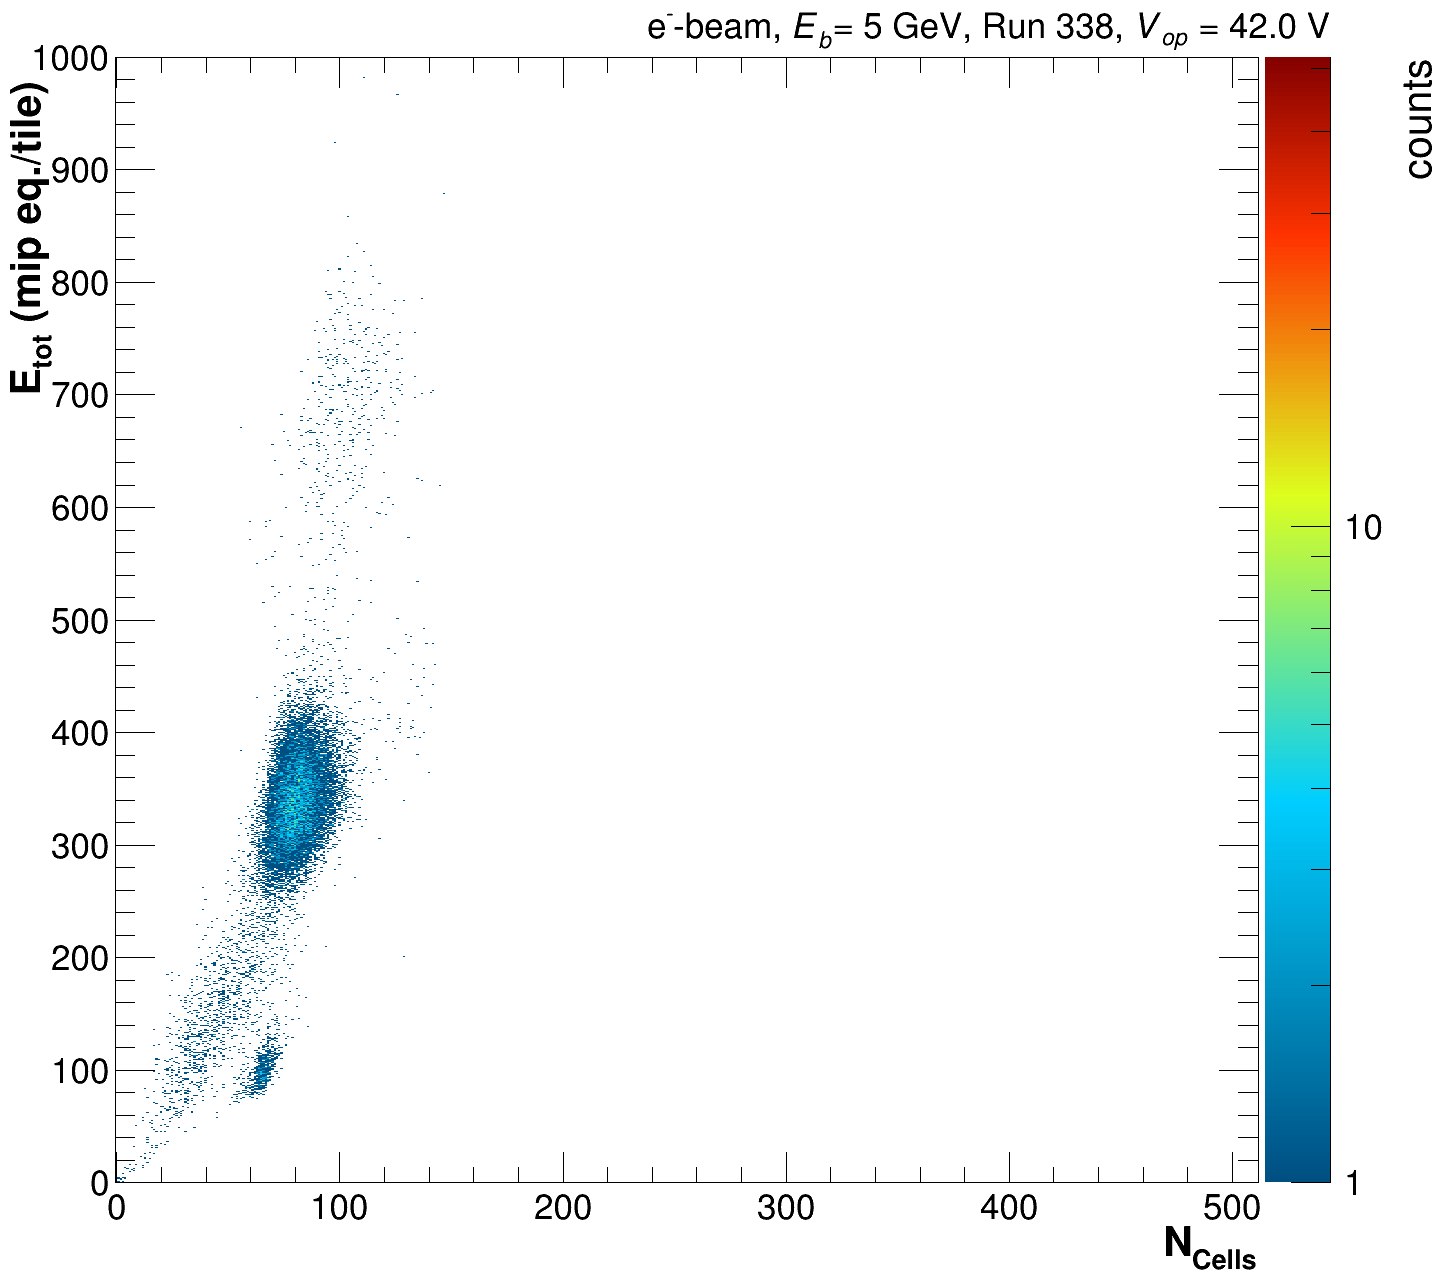
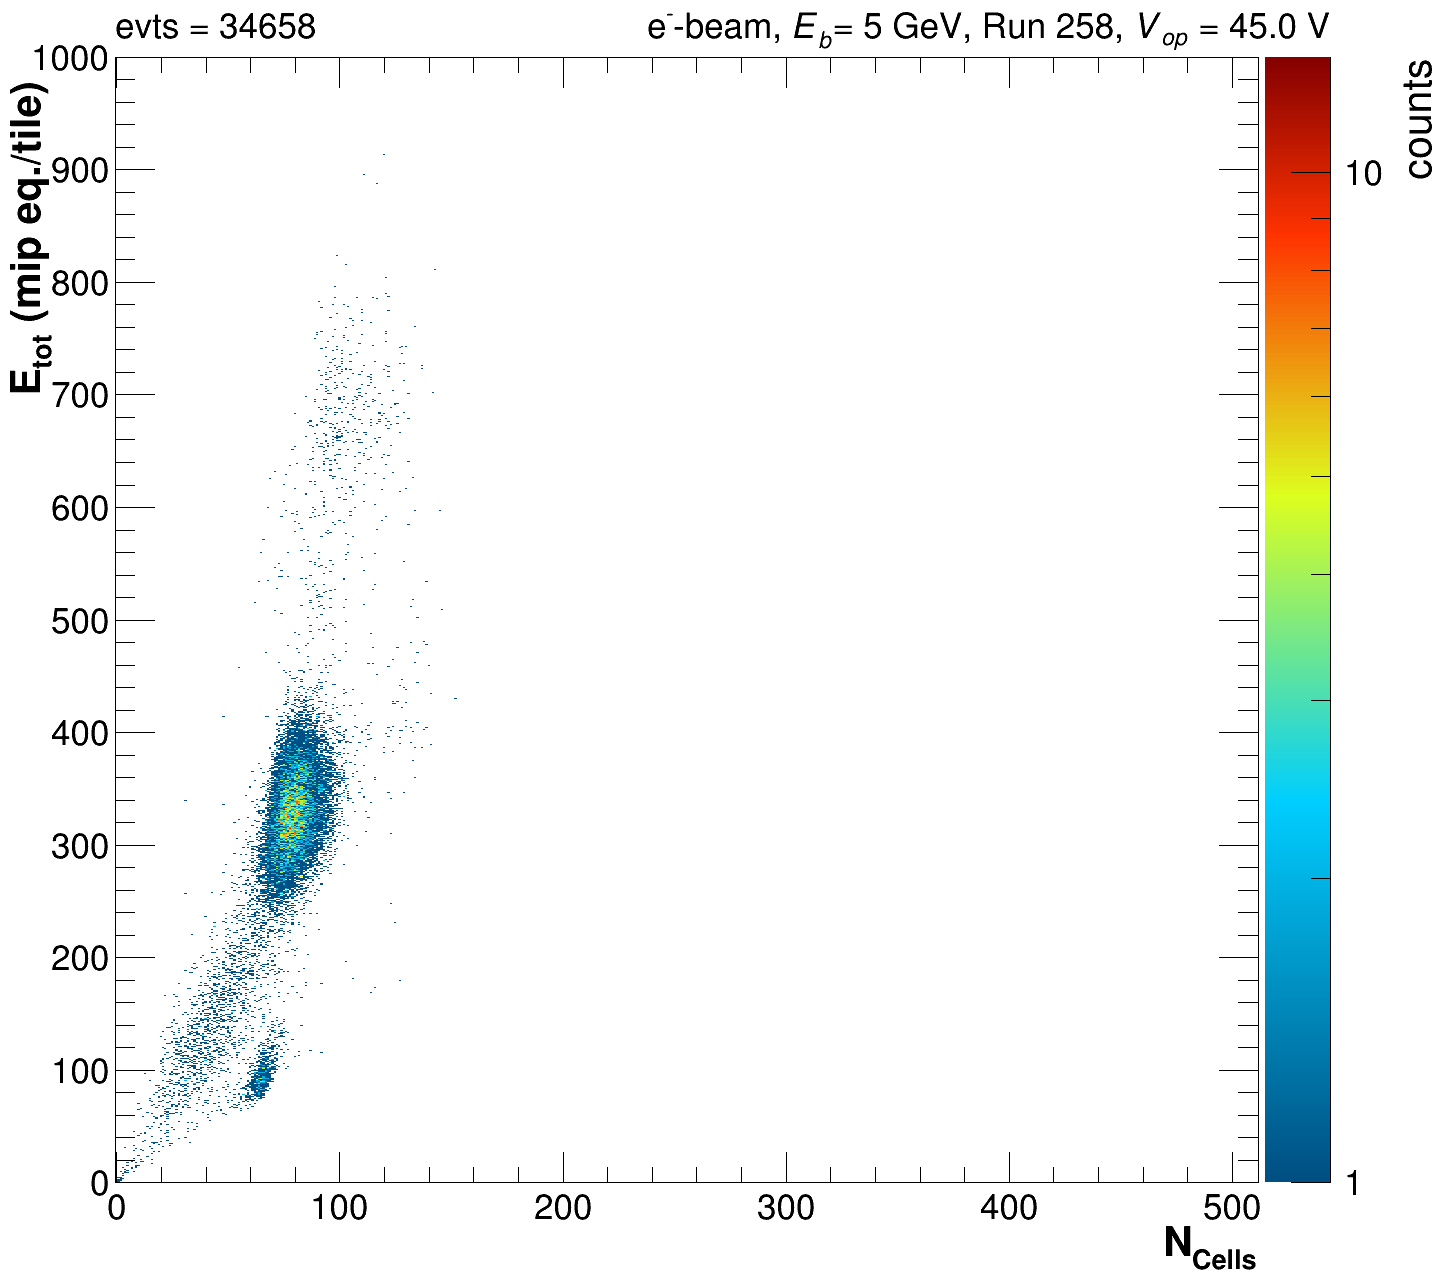
GITBOOK-71: No subject

diff --git a/calibration/apply-calibrations.md b/calibration/apply-calibrations.md
@@ -1,27 +1,12 @@
 # Apply Calibrations
 
-## CAEN data
+## General Philosophy & operation
 
-Our current philosophy for the application of the calibrations is to keep the original raw values for the HG & LG ADC, but provide in addition an energy (E) for each tile calibrated to mip scale per tile. The pedestal corrected ADC values can always be obtained by calculating:
+Our general philosophy:
 
-```cpp
-double hgCorr = aTile->GetADCHigh()-calib.GetPedestalMeanH(aTile->GetCellID());
-double lgCorr = aTile->GetADCLow()-calib.GetPedestalMeanL(aTile->GetCellID());
-```
-
-Which leaves the data as much with their original content as possible.
-
-For convenience and reducing the storage needs the calibration objects can be copied out of any file using the following command and stored in a separate file.
-
-```
-./DataPrep -a -i $ORGFILEWITHCALIB.root -A $NEWCALIBFILEONLY.root
-```
-
-Once more the `-a` option triggers the writing of the calibrations also to a txt file with the same name as `$NEWCALIBFILEONLY.root` ending in `_calib.txt.`
-
-The original calibrations contained in the input root file can be overwritten as usual with the option `-k $CALIBTXTFILE.`
-
-### Calibrating a single run
+1. Keep the raw data available to the as much as possible!
+2. Allow easy access to derived quantities, i.e. calibrated Energy (E), corrected time...
+3. Keep calibration and setup objects in the same output file&#x20;
 
 Calibrating a single run can be a time intensive procedure, due to the fact that we are calculating the local trigger primitives for each tile & event in the same process. Consequently it might be advisable to separate the trigger calculation and actual calibration (if this might need repeating).
 
@@ -47,9 +32,9 @@ Where `-T` results in calling the
 
 `bool Analyses::RunEvalLocalTriggers(void)` in [Analyses.cc](https://github.com/eic/epic-lfhcal-tbana/blob/main/NewStructure/Analyses.cc).
 
-This process will run for a while (hours) but in principle is suffient do be done once, of the LG-HG correlation factors weren't incorrectly applied. This process won't create any plots.
+This process will run for a while (hours) but in principle is sufficient do be done once, if nothing has been changed which should affect the trigger primitives calculation. This process won't create any plots.
 
-Afterwards, the calibration can be run directly on that raw-file wiht the trigger primitives. Which is a rather quick procedure and could be repeated multiple times if need be.
+Afterwards, the calibration can be run directly on that raw-file with the trigger primitives. Which is a rather quick procedure and could be repeated multiple times if need be.
 
 ```sh
 # apply same calibrations to file with local trigger eval
@@ -71,46 +56,155 @@ The calibration function can be found in
 
 and will create a separate hist output root in addition to several plots.
 
-<div><figure><img src="../.gitbook/assets/HG (1).png" alt=""><figcaption><p>HG spectra for all cells as function of cell ID.</p></figcaption></figure> <figure><img src="../.gitbook/assets/LG (1).png" alt=""><figcaption><p>LG spectra for all cells as function of cell ID.</p></figcaption></figure></div>
+**Keep in mind that during the calibration step we are also removing tiles which do not exceed a minimum threshold energy defined by `minMipFrac` .**&#x20;
 
-<div><figure><img src="../.gitbook/assets/HGCorr (1).png" alt=""><figcaption><p>Pedestal corrected HG spectra for all cells as function of cell ID.</p></figcaption></figure> <figure><img src="../.gitbook/assets/LGCorr (1).png" alt=""><figcaption><p>Pedestal corrected LG spectra for all cells as function of cell ID.</p></figcaption></figure></div>
+<div><figure><img src="../.gitbook/assets/EnergyTotalVsNCells (1) (1).png" alt=""><figcaption><p>Total energy within the event (E_cell > 0.3 E_mip) vs nr. of active cells with E_cell > 0.3 E_mip. CAEN data August 2024, 1 8M module, 64 layers.</p></figcaption></figure> <figure><img src="../.gitbook/assets/EnergyTotalVsNCells.png" alt=""><figcaption><p>Total energy within the event (E_cell > 0.3 E_mip) vs nr. of active cells with E_cell > 0.3 E_mip. HGCROC data November 2025, 2 8M modules, 32 layers.</p></figcaption></figure></div>
 
-<div><figure><img src="../.gitbook/assets/HGCorr_zoomed.png" alt=""><figcaption><p>Pedestal corrected HG spectra for all cells as function of cell ID. Zoomed in close to pedestal.</p></figcaption></figure> <figure><img src="../.gitbook/assets/LGCorr_zoomed.png" alt=""><figcaption><p>Pedestal corrected LG spectra for all cells as function of cell ID. Zoomed in close to pedestal.</p></figcaption></figure></div>
-
-<div><figure><img src="../.gitbook/assets/HGCorr_Noise.png" alt=""><figcaption><p>Pedestal corrected HG spectra for all locally noise triggered cells as function of cell ID. Zoomed in close to pedestal.</p></figcaption></figure> <figure><img src="../.gitbook/assets/LGCorr_Noise.png" alt=""><figcaption><p>Pedestal corrected LG spectra for all locally noise triggered cells as function of cell ID. Zoomed in close to pedestal.</p></figcaption></figure></div>
-
-For monitoring purposes the uncorrected, pedestal corrected as well as noise trigger pedestal corrected spectra are plotted. In order to identify possible problems with the pedestal subtraction or possible pedestal shifts due to common mode noise/cross-talk.
-
-<figure><img src="../.gitbook/assets/NoiseTrigg_HG_Layer11.png" alt=""><figcaption><p>HG spectra plotted together for all triggers and noise triggered tiles.</p></figcaption></figure>
-
-The detailed layer by layer plots will only be drawn if option `-e` is specified.
-
-<figure><img src="../.gitbook/assets/EnergyTotalVsNCells (1).png" alt=""><figcaption><p>Total energy within the event (E_cell > 0.3 E_mip) vs nr. of active cells with E_cell > 0.3 E_mip.</p></figcaption></figure>
-
-In the Etot vs NCells distribution the contamination to the electron beam can be clearly identified:
+In the Etot vs NCells distribution (CAEN data, August 2024) the contamination to the electron beam can be clearly identified:
 
 * blob at Etot = 400: electrons
 * lower blob and diagonal: muons
 * blob around Etot = 700: mult part (i.e 2 electrons)
 * diag to electron blob: hadrons
 
-This can be exploited later to do basic event selections, together with the more general distribution within the LFHCal module.
+This can be exploited later to do basic event selections, together with the more general distribution within the LFHCal module. With the different geometry and readout used in the 2025 TB campaign this is possible as well, however the separation isn't quite as obvious.
 
-<figure><img src="../.gitbook/assets/EnergyVsCellID (1).png" alt=""><figcaption><p>Calibrated cell energy as function of cell ID.</p></figcaption></figure>
+<div><figure><img src="../.gitbook/assets/EnergyTot.png" alt=""><figcaption><p>Total energy per event as measured for the HGCROC data from 2025.</p></figcaption></figure> <figure><img src="../.gitbook/assets/NCells.png" alt=""><figcaption><p>Active number of cells per event as measured for the HGCROC data from 2025.</p></figcaption></figure></div>
+
+<div><figure><img src="../.gitbook/assets/EnergyVsCellID (1) (1).png" alt=""><figcaption><p>Calibrated cell energy as function of cell ID from the CAEN data from August 2024 (1 8M module)</p></figcaption></figure> <figure><img src="../.gitbook/assets/EnergyVsCellID.png" alt=""><figcaption><p>Calibrated cell energy as function of cell ID from the HGCROC data from November 2025 (2 8M module)</p></figcaption></figure></div>
 
 In the per cell energy distributions, discontinuities can be found, where we are switching from HG to the LG signal. This feature is under investigation and might originate from a change in the run-by-run LG-HG correlation values.
 
-<figure><img src="../.gitbook/assets/Spectra_Comb_Layer04.png" alt=""><figcaption><p>Single layer energy distributions.</p></figcaption></figure>
+<figure><img src="../.gitbook/assets/Spectra_Comb_Layer04.png" alt=""><figcaption><p>Single layer energy distributions, CAEN data, August 2024, 1 8M module.</p></figcaption></figure>
 
-### September 2023 data
+In the current implementation for the HGCROC data the total energy is solely extracted from the maximum ADC value, hence no range switching should be observed.
+
+<figure><img src="../.gitbook/assets/Spectra_HG_Layer04.png" alt=""><figcaption><p>Single layer energy distributions, HGCROC data, November 2025, 2 8M modules.</p></figcaption></figure>
+
+The detailed layer by layer plots will only be drawn if option `-e` is specified.
+
+### Separating calib-object & raw data
+
+For convenience and reducing the storage needs the calibration objects can be copied out of any file using the following command and stored in a separate file.
+
+```bash
+./DataPrep -a -i $ORGFILEWITHCALIB.root -A $NEWCALIBFILEONLY.root
+```
+
+Once more the `-a` option triggers the writing of the calibrations also to a txt file with the same name as `$NEWCALIBFILEONLY.root` ending in `_calib.txt.`
+
+The original calibrations contained in the input root file can be overwritten as usual with the option `-k $CALIBTXTFILE.`
+
+### CAEN data specific information
+
+For the CAEN data, the primary variable changed during the calibration procedure (besides the trigger primitives) is the energy of each cell. It is calculated as follows during the calib process:
+
+```cpp
+// defined constants
+double minMipFrac = 0.3;
+int corrHGADCSwap = 3500;
+// per tile calculated corrected ADC values
+double energy = 0.;
+double corrHG = aTile->GetADCHigh()-calib.GetPedestalMeanH(aTile->GetCellID());
+double corrLG = aTile->GetADCLow()-calib.GetPedestalMeanL(aTile->GetCellID());
+// calculation of the energy scaled to to the mip equivalent
+if(corrHG<corrHGADCSwap){
+  if(corrHG/calib.GetScaleHigh(aTile->GetCellID()) > minMipFrac){
+     energy=corrHG/calib.GetScaleHigh(aTile->GetCellID());
+  }
+} else {
+  energy=corrLG/calib.GetCalcScaleLow(aTile->GetCellID());
+}
+```
+
+Here the `corrHG` and `corrLG` reflect the pedestal corrected high gain and low gain ADC values of the CAEN readout, while `corrHGADCSwap` is the predefined value where we go from high gain to low gain. <mark style="color:$danger;">Only tiles with an energy surpassing the</mark> <mark style="color:$danger;"></mark><mark style="color:$danger;">`minMipFrac`</mark> <mark style="color:$danger;"></mark><mark style="color:$danger;">will be stored in the final output.</mark>
+
+The following plots will be produced and should be looked at for the CAEN data to ensure everything went as intended.
+
+<div><figure><img src="../.gitbook/assets/HG (1) (1).png" alt=""><figcaption><p>HG spectra for all cells as function of cell ID.</p></figcaption></figure> <figure><img src="../.gitbook/assets/LG (1).png" alt=""><figcaption><p>LG spectra for all cells as function of cell ID.</p></figcaption></figure></div>
+
+<div><figure><img src="../.gitbook/assets/HGCorr (1).png" alt=""><figcaption><p>Pedestal corrected HG spectra for all cells as function of cell ID.</p></figcaption></figure> <figure><img src="../.gitbook/assets/LGCorr (1).png" alt=""><figcaption><p>Pedestal corrected LG spectra for all cells as function of cell ID.</p></figcaption></figure></div>
+
+<div><figure><img src="../.gitbook/assets/HGCorr_zoomed.png" alt=""><figcaption><p>Pedestal corrected HG spectra for all cells as function of cell ID. Zoomed in close to pedestal.</p></figcaption></figure> <figure><img src="../.gitbook/assets/LGCorr_zoomed.png" alt=""><figcaption><p>Pedestal corrected LG spectra for all cells as function of cell ID. Zoomed in close to pedestal.</p></figcaption></figure></div>
+
+<div><figure><img src="../.gitbook/assets/HGCorr_Noise (1).png" alt=""><figcaption><p>Pedestal corrected HG spectra for all locally noise triggered cells as function of cell ID. Zoomed in close to pedestal.</p></figcaption></figure> <figure><img src="../.gitbook/assets/LGCorr_Noise.png" alt=""><figcaption><p>Pedestal corrected LG spectra for all locally noise triggered cells as function of cell ID. Zoomed in close to pedestal.</p></figcaption></figure></div>
+
+For monitoring purposes the uncorrected, pedestal corrected as well as noise trigger pedestal corrected spectra are plotted. In order to identify possible problems with the pedestal subtraction or possible pedestal shifts due to common mode noise/cross-talk.
+
+<figure><img src="../.gitbook/assets/NoiseTrigg_HG_Layer11.png" alt=""><figcaption><p>HG spectra plotted together for all triggers and noise triggered tiles.</p></figcaption></figure>
+
+### HGCROC data specific information
+
+For the HGCROC data we are touching significantly more variables during the calibration process and only the waveforms themselves reflect the raw data. The current tile energy estimates are based solely on the maximum ADC values scaled by the respective mip response. The calculation is done as follows:
+
+```cpp
+// get pedestal values from calib object
+double ped = calib.GetPedestalMeanL(aTile->GetCellID()); // ped based on waveform fit
+if (ped == -1000){  
+  ped = calib.GetPedestalMeanH(aTile->GetCellID());      // ped based on first sample fit
+  if (ped == -1000){
+    ped = aTile->GetPedestal();              // event-by-event first sample
+  }
+}
+// reevaluate waveform
+waveform_builder->set_waveform(aTile->GetADCWaveform());
+waveform_builder->fit_with_average_ped(ped);
+aTile->SetIntegratedADC(waveform_builder->get_E());
+aTile->SetPedestal(waveform_builder->get_pedestal());
+
+double adc = aTile->GetIntegratedADC();
+double tot = aTile->GetRawTOT();
+double toa = aTile->GetRawTOA();
+
+// obtain toa shift corrected values
+Int_t nSampTOA  = aTile->GetFirstTOASample();        
+double toaNs      = (double)aTile->GetLinearizedRawTOA()*aTile->GetTOATimeResolution();
+double toaCorrNs  = toaNs;
+if (calib.GetToAOff(aTile->GetCellID()) != -1000.){
+  // correct ToA sample and return correct nSampleTOA
+  nSampTOA      = aTile->SetCorrectedTOA(calib.GetToAOff(aTile->GetCellID())); 
+  toaCorrNs     = (double)(aTile->GetCorrectedTOA())*aTile->GetTOATimeResolution();;
+}
+// energy calibration 
+double tempE = adc/calib.GetScaleHigh(aTile->GetCellID());
+// only set energy if above min mip threshold
+if (tempE > minMipFrac)
+  energy=tempE;
+```
+
+In this routine, besides the energy calculation:
+
+1. the pedestals are reset,&#x20;
+2. the integrated ADC is reevaluated and&#x20;
+3. the TOA offset is corrected for&#x20;
+
+The steps 1-3 are handled in the same manner as during the [Transfer-Calib routine](mip-calibration.md#transferring-the-pedestal-calibrations-to-a-different-run) and the same QA plots are created for the TOA offset correction. For all intents and purposes the Transfer-Calib routine should only be necessary to run for the muon runs, while all other runs would be calibrated using the full calibration procedure described here.
+
+In addition, the following HGCROC specific plots are produced and should be checked for their correctness. Layer dependent plots will only be enabled if the extended plotting option is enabled `-e` or `-E [0-3]` , depending on how much detail you'd like to produce. When running consider that those options might be small as they produce rather large and detailed outputs.
+
+<div><figure><img src="../.gitbook/assets/HG.png" alt="" width="375"><figcaption><p>Max adc vs cellID for all events.</p></figcaption></figure> <figure><img src="../.gitbook/assets/Tot.png" alt="" width="375"><figcaption><p>TOT vs cellID for all events.</p></figcaption></figure> <figure><img src="../.gitbook/assets/SaturatedCellsPerEvent.png" alt="" width="375"><figcaption><p>Frequency of reaching saturation of the ADC range vs cellID.</p></figcaption></figure></div>
+
+<div><figure><img src="../.gitbook/assets/HGCorr_Noise.png" alt="" width="188"><figcaption><p>Max ADCs vs cellID for cells which were triggered by the local noise trigger. </p></figcaption></figure> <figure><img src="../.gitbook/assets/Tot_Noise.png" alt="" width="188"><figcaption><p>TOT vs cellID for cells which were triggered by the local noise trigger. If this plot has entries, something went seriously wrong!</p></figcaption></figure></div>
+
+<figure><img src="../.gitbook/assets/Spectra_HG_Layer04 (1).png" alt=""><figcaption><p>Max ADC distribution for one single layer of the HGCROC data obtained in November 2025 (2 8M modules).</p></figcaption></figure>
+
+<figure><img src="../.gitbook/assets/Spectra_Tot_Layer04.png" alt=""><figcaption><p>TOT distribution for one single layer of the HGCROC data obtained in November 2025 (2 8M modules).</p></figcaption></figure>
+
+<figure><img src="../.gitbook/assets/ADCTOT_Layer04.png" alt=""><figcaption><p>Max ADC vs TOT distribution for one single layer of the HGCROC data obtained in November 2025 (2 8M modules). Profile distribution reflecting the mean is overlaid in red dots.</p></figcaption></figure>
+
+## Scripted Operation
+
+### CAEN Data
+
+#### September 2023 data
 
 No scripts have been created yet.
 
-### October 2023 data
+#### October 2023 data
 
 No scripts have been created yet.
 
-### August 2024 data
+#### August 2024 data
 
 The primary script for the application of the calibrations of this data set is `applyCalibration_2024.sh`, in order to apply the calibrations for a specific scan the following commands need to be executed in order. The next command should only be executed if the outputs of the previous step have been checked.
 
@@ -127,13 +221,13 @@ bash applyCalibration_2024.sh $USERNAME ScanA full
 
 The 2nd argument defines which scan it is, please check which are currently available and expand where necessary.
 
-## HGCROC Data
+### HGCROC Data
 
-### August 2024
+#### August 2024
 
+No scripts have been created yet.
 
-
-### November 2025
+#### November 2025
 
 The primary script for the application of the calibrations of this data set is `applyCalibrationHGCROC_2025.sh`, in order to apply the calibrations for a specific scan the following commands need to be executed in order. The next command should only be executed if the outputs of the previous step have been checked.
 

diff --git a/data-analysis/basic-qa-of-calibrated-data.md b/data-analysis/basic-qa-of-calibrated-data.md
@@ -12,11 +12,11 @@ The main-program to run a basic QA over the calbrated data is `./DataAna.` So fa
 
 It currently produces the following plots and can distinguish 3 different trigger classes (All, Muon triggered, Not Muon Triggered).
 
-<div><figure><img src="../.gitbook/assets/EnergyVsCellID.png" alt=""><figcaption></figcaption></figure> <figure><img src="../.gitbook/assets/HG.png" alt=""><figcaption></figcaption></figure> <figure><img src="../.gitbook/assets/HGCorr.png" alt=""><figcaption></figcaption></figure> <figure><img src="../.gitbook/assets/LG.png" alt=""><figcaption></figcaption></figure> <figure><img src="../.gitbook/assets/LGCorr.png" alt=""><figcaption></figcaption></figure></div>
+<div><figure><img src="../.gitbook/assets/EnergyVsCellID (1).png" alt=""><figcaption></figcaption></figure> <figure><img src="../.gitbook/assets/HG (1).png" alt=""><figcaption></figcaption></figure> <figure><img src="../.gitbook/assets/HGCorr.png" alt=""><figcaption></figcaption></figure> <figure><img src="../.gitbook/assets/LG.png" alt=""><figcaption></figcaption></figure> <figure><img src="../.gitbook/assets/LGCorr.png" alt=""><figcaption></figcaption></figure></div>
 
-<div><figure><img src="../.gitbook/assets/EnergyTotalVsNCells.png" alt=""><figcaption></figcaption></figure> <figure><img src="../.gitbook/assets/EnergyTotalVsNCells_MuonTrigg.png" alt=""><figcaption></figcaption></figure> <figure><img src="../.gitbook/assets/EnergyTotalVsNCells_WoMuonTrigg.png" alt=""><figcaption></figcaption></figure></div>
+<div><figure><img src="../.gitbook/assets/EnergyTotalVsNCells (1).png" alt=""><figcaption></figcaption></figure> <figure><img src="../.gitbook/assets/EnergyTotalVsNCells_MuonTrigg.png" alt=""><figcaption></figcaption></figure> <figure><img src="../.gitbook/assets/EnergyTotalVsNCells_WoMuonTrigg.png" alt=""><figcaption></figcaption></figure></div>
 
-<div><figure><img src="../.gitbook/assets/EnergyTot.png" alt=""><figcaption></figcaption></figure> <figure><img src="../.gitbook/assets/EnergyTotSplit.png" alt=""><figcaption></figcaption></figure> <figure><img src="../.gitbook/assets/NCells.png" alt=""><figcaption></figcaption></figure> <figure><img src="../.gitbook/assets/NCellsSplit.png" alt=""><figcaption></figcaption></figure></div>
+<div><figure><img src="../.gitbook/assets/EnergyTot (1).png" alt=""><figcaption></figcaption></figure> <figure><img src="../.gitbook/assets/EnergyTotSplit.png" alt=""><figcaption></figcaption></figure> <figure><img src="../.gitbook/assets/NCells (1).png" alt=""><figcaption></figcaption></figure> <figure><img src="../.gitbook/assets/NCellsSplit.png" alt=""><figcaption></figcaption></figure></div>
 
 <div><figure><img src="../.gitbook/assets/EnergyVsLayer (1).png" alt=""><figcaption></figcaption></figure> <figure><img src="../.gitbook/assets/EnergyVsLayer_MuonTrigg (1).png" alt=""><figcaption></figcaption></figure> <figure><img src="../.gitbook/assets/EnergyVsLayer_WOMuonTrigg (1).png" alt=""><figcaption></figcaption></figure></div>
 
